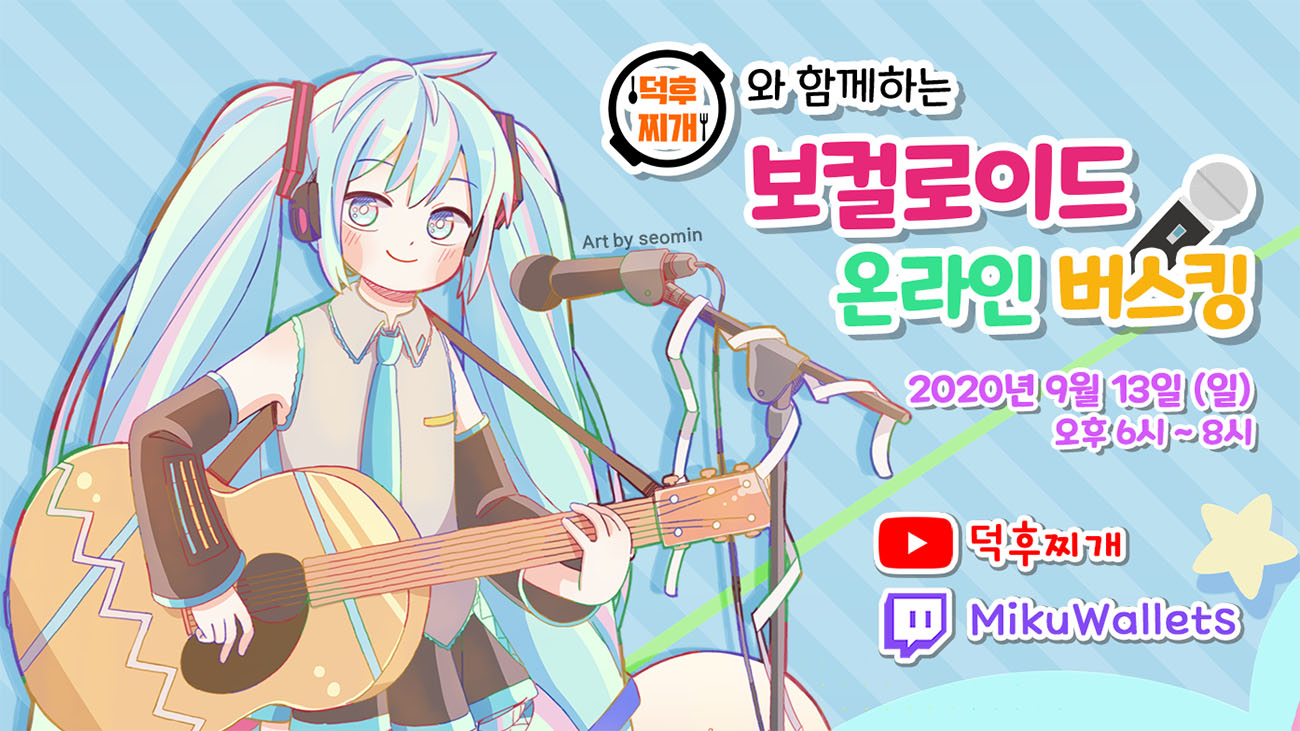
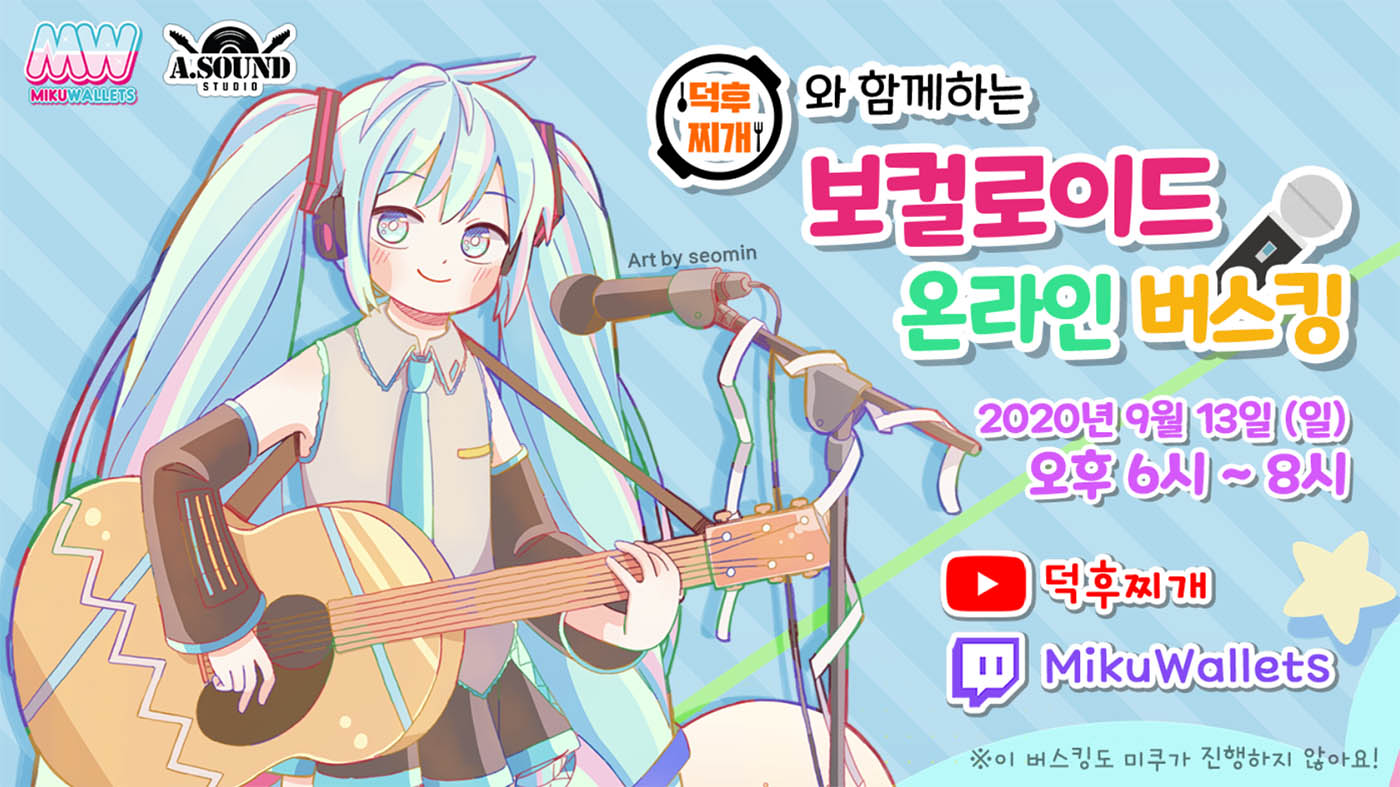
Update post : vocaloid online busking

diff --git a/_projects/vocaloid-online-busking.md b/_projects/vocaloid-online-busking.md
@@ -2,7 +2,7 @@
 layout: project
 title: 보컬로이드 온라인 버스킹!
 image: /assets/img/project/2020_09_vocaloidonlinebusking_header.jpg
-#date: '2020-09-13'
+date: '2020-09-13'
 caption: |
   덕후찌개와 함께하는 온라인 어쿠스틱 버스킹 이벤트입니다.
 sitemap: false
@@ -21,6 +21,9 @@ sitemap: false
 - 장소
   - 유튜브 [<i class="fab fa-youtube"></i> 덕후찌개](https://www.youtube.com/channel/UCM3KUmsrRb01wwNUBJaVOag){: target="_blank"}
   - 트위치 [<i class="fab fa-twitch"></i> MikuWallets](https://www.twitch.tv/mikuwallets/){: target="_blank"}
+  - 방송 스튜디오 : [<i class="fab fa-twitter"></i> ASOUND STUDIO](https://twitter.com/asound_studio/){: target="_blank"}
+
+* 최대 동시 시청자 수 : 약 60명
 
 ## 출연진
 * 게스트 보컬 : 코리코 [<i class="fab fa-twitter"></i>](https://twitter.com/corico_yurideer){: target="_blank"}
@@ -36,5 +39,15 @@ sitemap: false
 ## 관련 링크
 - [개최 공지](https://twitter.com/MikuWallets/status/1303669887118655488){: target="_blank"}
 
-## 포스터
+## 포스터 및 스튜디오 포토 
 ![poster](/assets/img/project/2020_09_vocaloidonlinebusking_poster.jpg)
+
+<details>
+<summary data-closed="더보기" data-open="접기"></summary>
+<!-- 스타일 적용시 div 래핑 -->
+<div markdown="1" style="padding: 15px 0">
+
+![castphoto](/assets/img/project/2020_09_vocaloidonlinebusking_casts.jpg){: loading="lazy"}
+
+</div>
+</details>

diff --git a/_posts/2020-09-09-vocaloidbusking.md b/_posts/2020-09-09-vocaloidbusking.md
@@ -15,5 +15,5 @@ sitemap: false
 좋아하는 보컬로이드 명곡들을 어쿠스틱 연주로 만나볼수 있는 유익한 시간을 놓치지 마세요!
 
 <p class="read-more mt1">
-  클릭하여 <a class="heading flip-title" href="/works/vocaloid-online-busking/">보컬로이드 온라인 버스킹</a> 자세히 알아보기
+  클릭하여 <a class="heading flip-title" href="/projects/vocaloid-online-busking/">보컬로이드 온라인 버스킹</a> 자세히 알아보기
 </p>
